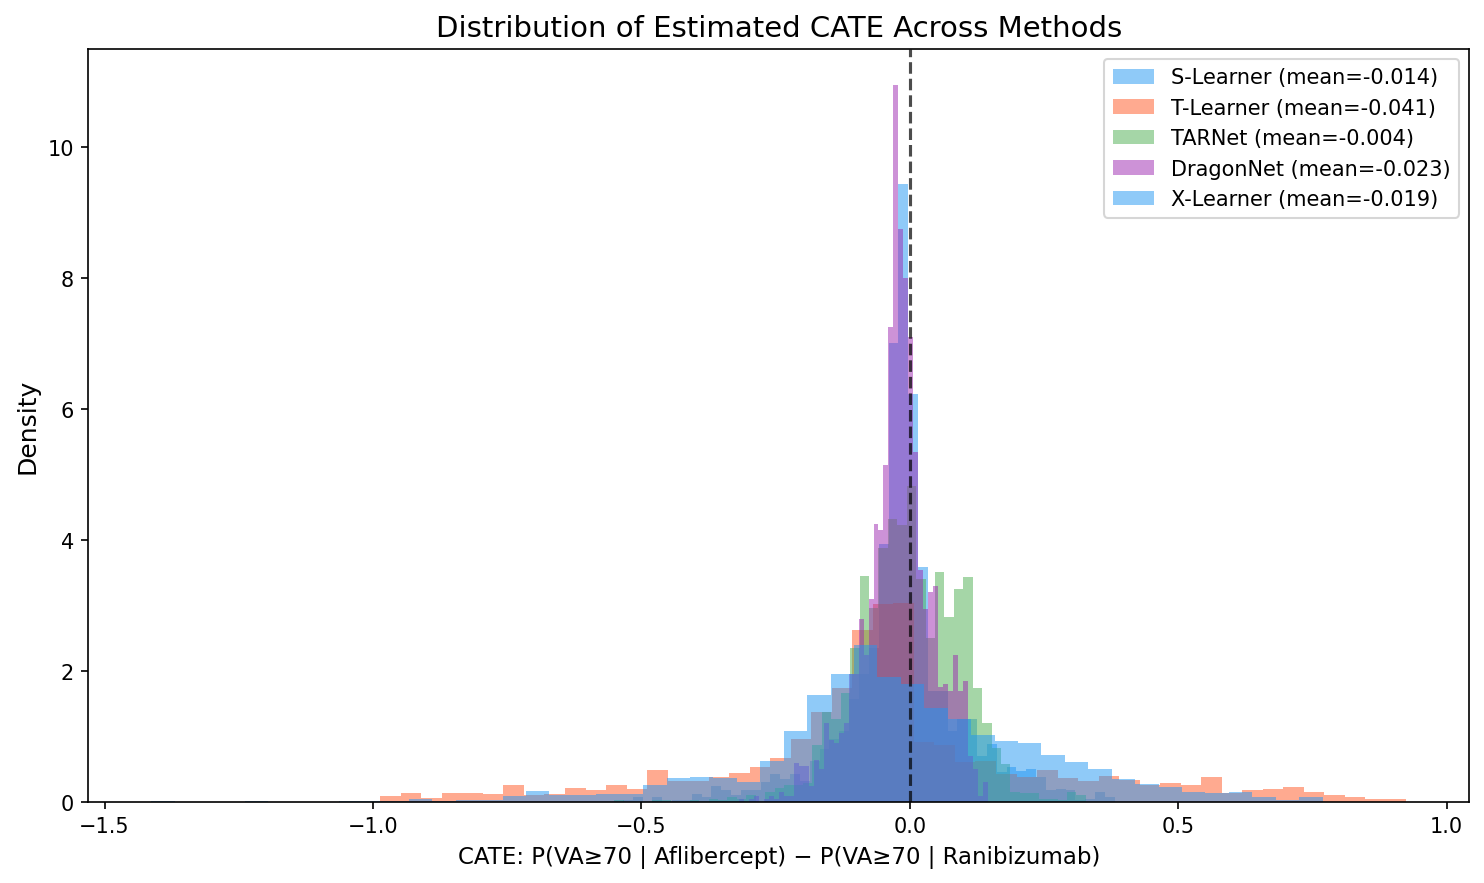
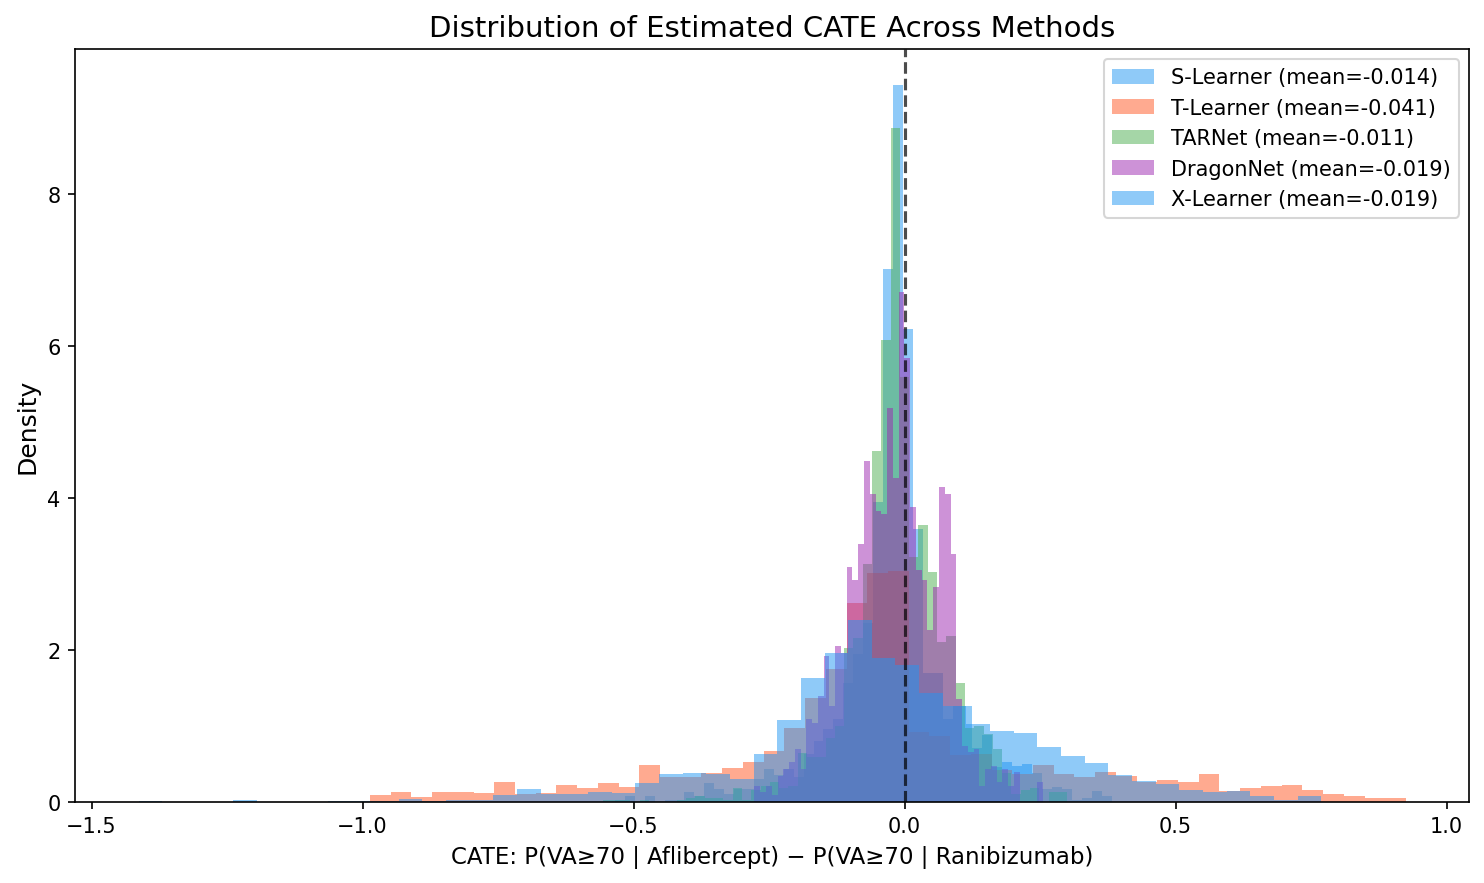
Update cata analysis script, only focus on post-2013 data

diff --git a/cate_estimation/cate_analysis.py b/cate_estimation/cate_analysis.py
@@ -283,7 +283,7 @@ class DragonNetWrapper:
     
     def fit(self, X, T, Y):
         from nn_models import DragonNet
-        self.model = DragonNet(input_dim=X.shape[1])
+        self.model = DragonNet(input_dim=X.shape[1], targeted_reg=True)
         self.model.fit(X, T, Y, verbose=False)
         return self
     
@@ -712,7 +712,7 @@ def main():
     
     print("\n>>> PRIMARY ANALYSIS: Full sample (era as covariate)")
     df = load_and_prepare_data(
-        'doi_10_5061_dryad_nvx0k6dqg__v20201105/MEH_AMD_survivaloutcomes_database.csv',
+        '../input/MEH_AMD_survivaloutcomes_database.csv',
         time_horizon_days=730,
         restrict_post_2013=True
     )
@@ -865,43 +865,43 @@ def main():
     print(f"  the expected improvement in P(VA≥70) would be: "
           f"{np.mean(np.abs(primary_tau)):.4f}")
     
-    # =========================================================================
-    # SENSITIVITY ANALYSIS: Post-2013 only
-    # =========================================================================
-    print("\n\n" + "="*70)
-    print("SENSITIVITY ANALYSIS: POST-2013 PATIENTS ONLY")
-    print("="*70)
+    # # =========================================================================
+    # # SENSITIVITY ANALYSIS: Post-2013 only
+    # # =========================================================================
+    # print("\n\n" + "="*70)
+    # print("SENSITIVITY ANALYSIS: POST-2013 PATIENTS ONLY")
+    # print("="*70)
     
-    df_post = load_and_prepare_data(
-        'doi_10_5061_dryad_nvx0k6dqg__v20201105/MEH_AMD_survivaloutcomes_database.csv',
-        time_horizon_days=730,
-        restrict_post_2013=True
-    )
+    # df_post = load_and_prepare_data(
+    #     '../input/MEH_AMD_survivaloutcomes_database.csv',
+    #     time_horizon_days=730,
+    #     restrict_post_2013=False
+    # )
     
-    print(f"\nPost-2013 analysis sample: {len(df_post)} patients")
-    print(f"  Aflibercept: {(df_post['treatment']==1).sum()}")
-    print(f"  Ranibizumab: {(df_post['treatment']==0).sum()}")
+    # print(f"\nPost-2013 analysis sample: {len(df_post)} patients")
+    # print(f"  Aflibercept: {(df_post['treatment']==1).sum()}")
+    # print(f"  Ranibizumab: {(df_post['treatment']==0).sum()}")
     
-    X_post, T_post, Y_post, fn_post = get_feature_matrix(df_post)
+    # X_post, T_post, Y_post, fn_post = get_feature_matrix(df_post)
     
-    # Note: severe imbalance — flag this
-    imbalance_ratio = (T_post == 1).sum() / (T_post == 0).sum()
-    print(f"\n  WARNING: Treatment ratio (AFB/RBZ) = {imbalance_ratio:.1f}:1")
-    print(f"  This severe imbalance limits the reliability of CATE estimates.")
-    print(f"  The primary analysis (full sample) is preferred.\n")
+    # # Note: severe imbalance — flag this
+    # imbalance_ratio = (T_post == 1).sum() / (T_post == 0).sum()
+    # print(f"\n  WARNING: Treatment ratio (AFB/RBZ) = {imbalance_ratio:.1f}:1")
+    # print(f"  This severe imbalance limits the reliability of CATE estimates.")
+    # print(f"  The primary analysis (full sample) is preferred.\n")
     
-    if (T_post == 0).sum() >= 50:  # Only run if enough control patients
-        e_post, _ = estimate_propensity_scores(X_post, T_post, fn_post)
+    # if (T_post == 0).sum() >= 50:  # Only run if enough control patients
+    #     e_post, _ = estimate_propensity_scores(X_post, T_post, fn_post)
         
-        for name, EstClass in {'X-Learner': XLearner, 'T-Learner': TLearner, 'DragonNet': DragonNetWrapper}.items():
-            tau_post = cross_fitted_cate(X_post, T_post, Y_post, EstClass, n_splits=5)
-            print(f"  {name} — Mean CATE: {tau_post.mean():+.4f}, "
-                  f"Std: {tau_post.std():.4f}, "
-                  f"% favoring AFB: {100*(tau_post > 0).mean():.1f}%")
+    #     for name, EstClass in {'X-Learner': XLearner, 'T-Learner': TLearner, 'DragonNet': DragonNetWrapper}.items():
+    #         tau_post = cross_fitted_cate(X_post, T_post, Y_post, EstClass, n_splits=5)
+    #         print(f"  {name} — Mean CATE: {tau_post.mean():+.4f}, "
+    #               f"Std: {tau_post.std():.4f}, "
+    #               f"% favoring AFB: {100*(tau_post > 0).mean():.1f}%")
     
-    print("\n" + "="*70)
-    print("ANALYSIS COMPLETE")
-    print("="*70)
+    # print("\n" + "="*70)
+    # print("ANALYSIS COMPLETE")
+    # print("="*70)
 
 
 if __name__ == '__main__':

diff --git a/cate_estimation/analysis.py b/cate_estimation/analysis.py
@@ -1,7 +1,7 @@
 import pandas as pd
 
 # load dataset
-data = 'doi_10_5061_dryad_nvx0k6dqg__v20201105/MEH_AMD_survivaloutcomes_database.csv'
+data = '../input/MEH_AMD_survivaloutcomes_database.csv'
 df = pd.read_csv(data)
 
 # do EDA of data
